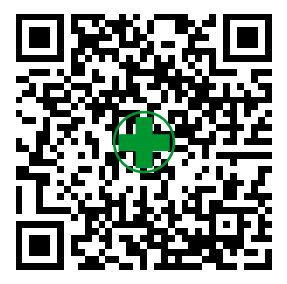
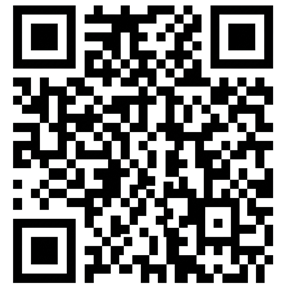
cambio de url y qr

diff --git a/src/Componentes/Menu.jsx b/src/Componentes/Menu.jsx
@@ -36,7 +36,7 @@ const Menu = ({
 }) => {
 
    const copiarLink = () => {
-    navigator.clipboard.writeText('https://www.farmaciasdeturnosn.com.ar/') // copia el texto en el portapapeles del dispositivo
+    navigator.clipboard.writeText('https://farmacias-de-turno-lanus.vercel.app/') // copia el texto en el portapapeles del dispositivo
     .then(() => {
       setIsCopyLink(true)
       setTimeout(() => {
